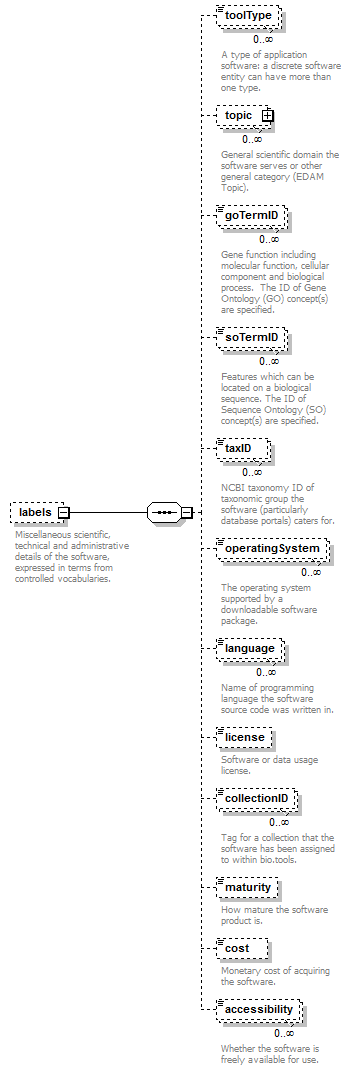
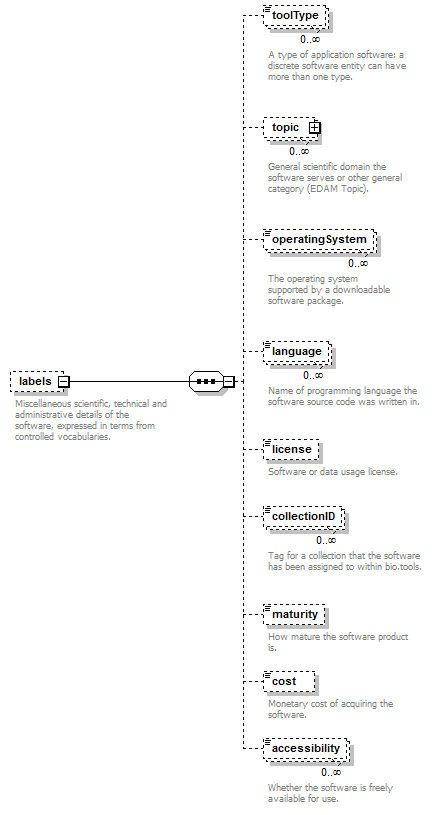
misc. updates

Changed region(s): [[0.0285, 0.0, 0.9687, 1.0], [0.5413, 0.2147, 0.5698, 0.3067]]

diff --git a/biotoolsschema_elements.rst b/biotoolsschema_elements.rst
@@ -83,7 +83,7 @@ For each operation, data or format element, an `EDAM ontology <https://github.co
    "output->format", "Allowed format(s) of the output data (EDAM Format).", "Ontology concept (restriction)", "0 or more"
    "operation | data | format | topic->url", "URL of an EDAM Operation | Data | Format concept.", "URL (restriction)",  "0 or 1"
    "operation | data | format | topic->term", "An EDAM Operation | Data | Format term (preferred label or synonym).", "xs:token", "0 or 1"
-   "comment", "Concise comment about this function, if not apparent from the software description and EDAM annotations.", "xs:token (restriction)", "0 or 1"
+   "note", "Concise comment about this function, if not apparent from the software description and EDAM annotations.", "xs:token (restriction)", "0 or 1"
    "cmd", "Relevant command, command-line fragment or option for executing this function / running the tool in this mode.", "xs:token (restriction)", "0 or 1"
 
 .. important::
@@ -114,9 +114,6 @@ Labels group
    "topic", "General scientific domain the software serves or other general category: one of EDAM Topic URL or term is specified.", "Ontology concept (restriction)", "0 or more"
    "topic->url", "URL of an EDAM Topic concept.", "URL (restriction)", "0 or 1"
    "topic->term", "An EDAM Topic term (preferred label or synonym).", "xs:token", "0 or 1"
-   "goTermID", "Gene function including molecular function, cellular component and biological process.  Miscellaneous ontology annotation. The ID of Gene Ontology (GO) concept(s) are specified.", "xs:token (restriction)", "0 or more"
-   "soTermID", "Features which can be located on a biological sequence. The ID of Sequence Ontology (SO) concept(s) are specified.", "xs:token (restriction)", "0 or more"
-   "taxId", "NCBI taxonomy ID of taxonomic group the software (particularly database portals) caters for.", "xs:token (restriction)", "0 or more"
    "operatingSystem", "The operating system supported by a downloadable software package.", "enum (see `docs <http://biotools.readthedocs.io/en/latest/curators_guide.html#operating-system>`__)", "0 or more"
    "language", "Name of programming language the software source code was written in.", "enum (see `docs <https://github.com/bio-tools/biotoolsSchema/>`__)", "0 or more"
    "license", "Software or data usage license.", "enum (see `docs <https://github.com/bio-tools/biotoolsSchema/tree/master/stable/docs>`__)", "0 or 1"
@@ -127,18 +124,6 @@ Labels group
 
 .. note::
    See the `Curators Guide <http://biotools.readthedocs.io/en/latest/curators_guide.html#labels-group>`__.
-
-Relation group
-^^^^^^^^^^^^^^
-*Details of a relationship this software shares with other software registered in bio.tools.*
-
-See the `GitHub docs <https://github.com/bio-tools/biotoolsSchema/tree/master/stable/docs>`__.
-
-API spec group
-^^^^^^^^^^^^^^
-*Details of the API to a service including service endpoints.*
-
-See the `GitHub docs <https://github.com/bio-tools/biotoolsSchema/tree/master/stable/docs>`__.
 
 Links group
 ^^^^^^^^^^^
@@ -152,8 +137,7 @@ Links group
 	    
    "url", "A link of some relevance to the software (URL).", "URL", "1 only"
    "type", "The type of data, information or system that is obtained when the link is resolved.", "enum (see `docs <http://biotools.readthedocs.io/en/latest/curators_guide.html#id60>`__)", "1 only"
-   "comment", "Comment about the link.", "xs:token (restriction)", "0 or more"
-   "isAvailable", "Used (with value of 'Not available') when a link of a certain type is known not to be available.", "enum ('Not available')", "0 or 1"
+   "note", "Comment about the link.", "xs:token (restriction)", "0 or more"
 
    
 .. note::

diff --git a/keep_for_later.rst b/keep_for_later.rst
@@ -1,1 +1,19 @@
    "relation type ", "Type of relation between this and another registered software, e.g. 'isInterfaceTo'.", "`link <https://github.com/bio-tools/biotoolsSchema/tree/master/stable/docs>`__"
+   "shortDescription", "Short and concise textual description of the software function.", "xs:token (restriction)", "0 or 1"
+   "goTermID", "Gene function including molecular function, cellular component and biological process.  Miscellaneous ontology annotation. The ID of Gene Ontology (GO) concept(s) are specified.", "xs:token (restriction)", "0 or more"
+   "soTermID", "Features which can be located on a biological sequence. The ID of Sequence Ontology (SO) concept(s) are specified.", "xs:token (restriction)", "0 or more"
+   "taxId", "NCBI taxonomy ID of taxonomic group the software (particularly database portals) caters for.", "xs:token (restriction)", "0 or more"
+
+   Relation group
+^^^^^^^^^^^^^^
+*Details of a relationship this software shares with other software registered in bio.tools.*
+
+See the `GitHub docs <https://github.com/bio-tools/biotoolsSchema/tree/master/stable/docs>`__.
+
+API spec group
+^^^^^^^^^^^^^^
+*Details of the API to a service including service endpoints.*
+
+See the `GitHub docs <https://github.com/bio-tools/biotoolsSchema/tree/master/stable/docs>`__.
+
+   "isAvailable", "Used (with value of 'Not available') when a link of a certain type is known not to be available.", "enum ('Not available')", "0 or 1"
